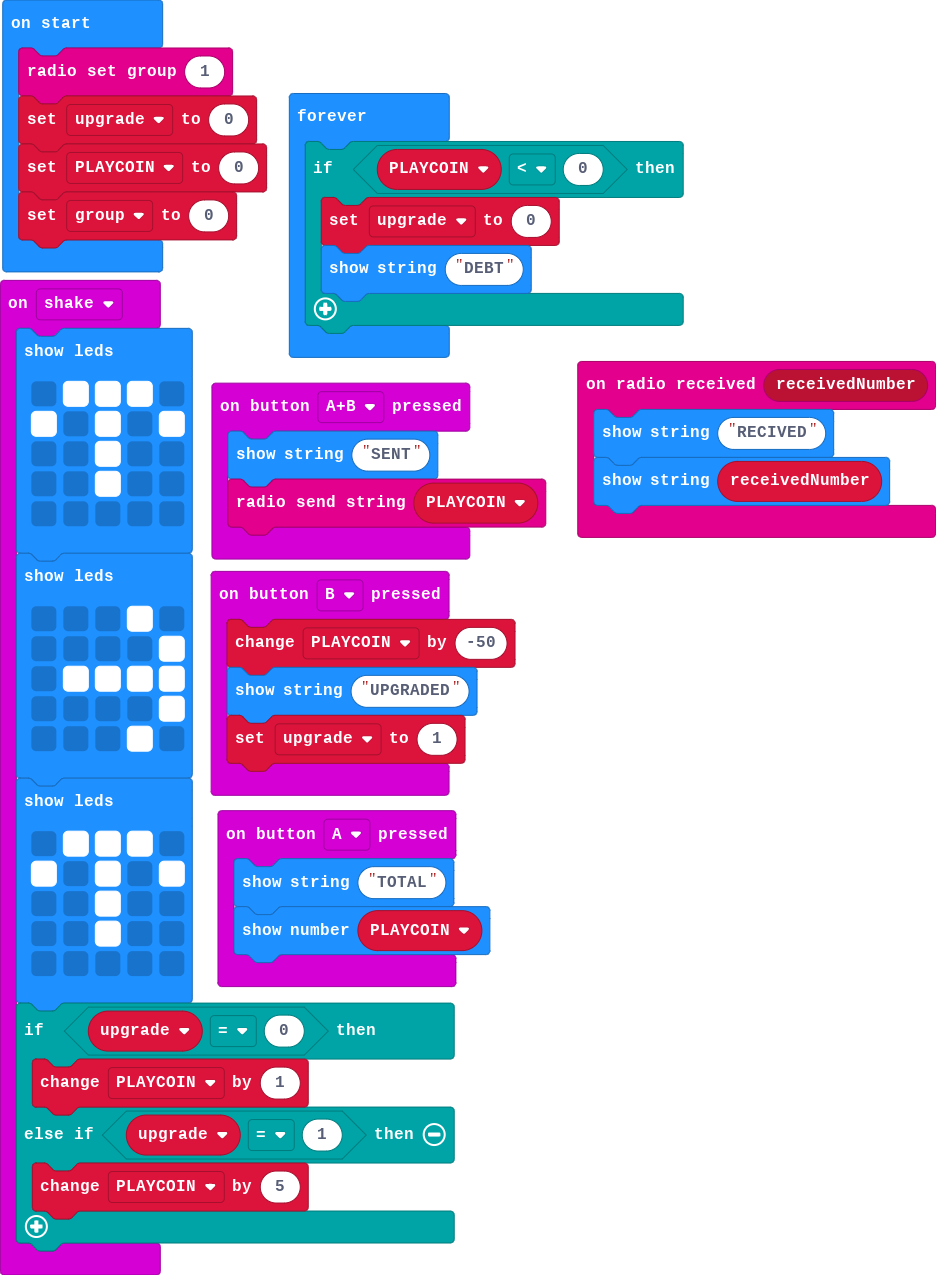
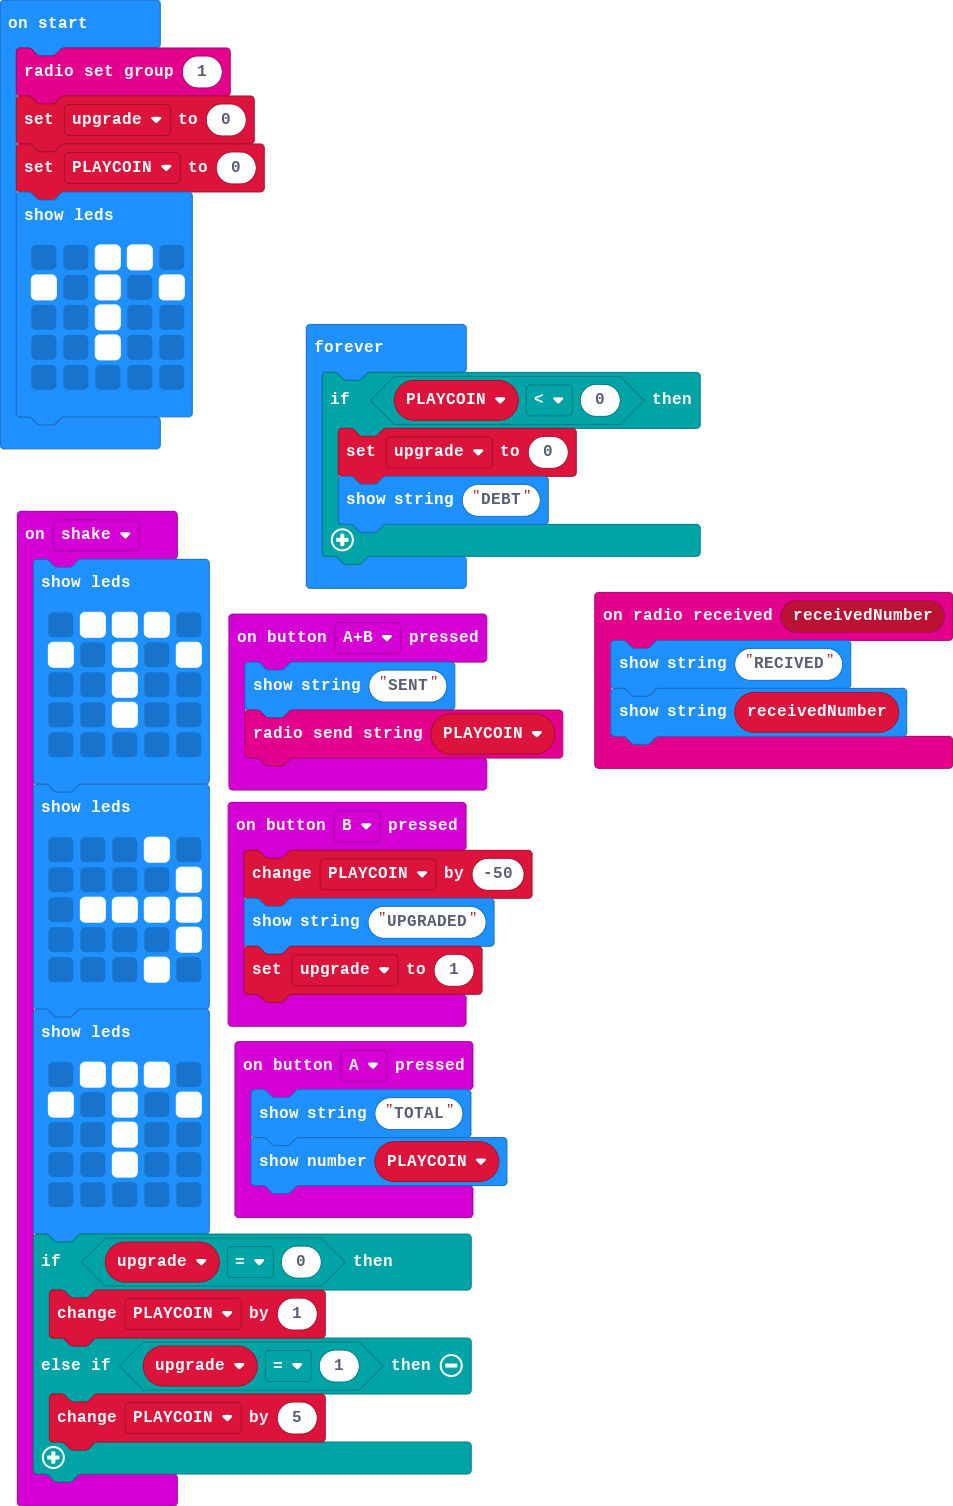
Update pxt.json, main.blocks, main.ts

diff --git a/main.ts b/main.ts
@@ -51,7 +51,13 @@ let upgrade = 0
 radio.setGroup(1)
 upgrade = 0
 PLAYCOIN = 0
-let group = 0
+basic.showLeds(`
+    . . # # .
+    # . # . #
+    . . # . .
+    . . # . .
+    . . . . .
+    `)
 basic.forever(function () {
     if (PLAYCOIN < 0) {
         upgrade = 0
